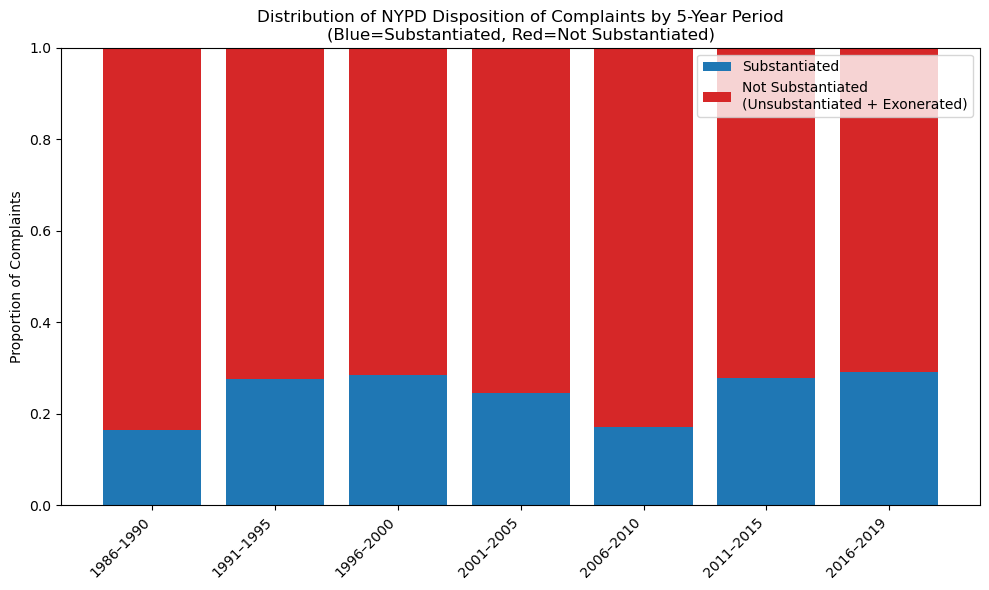
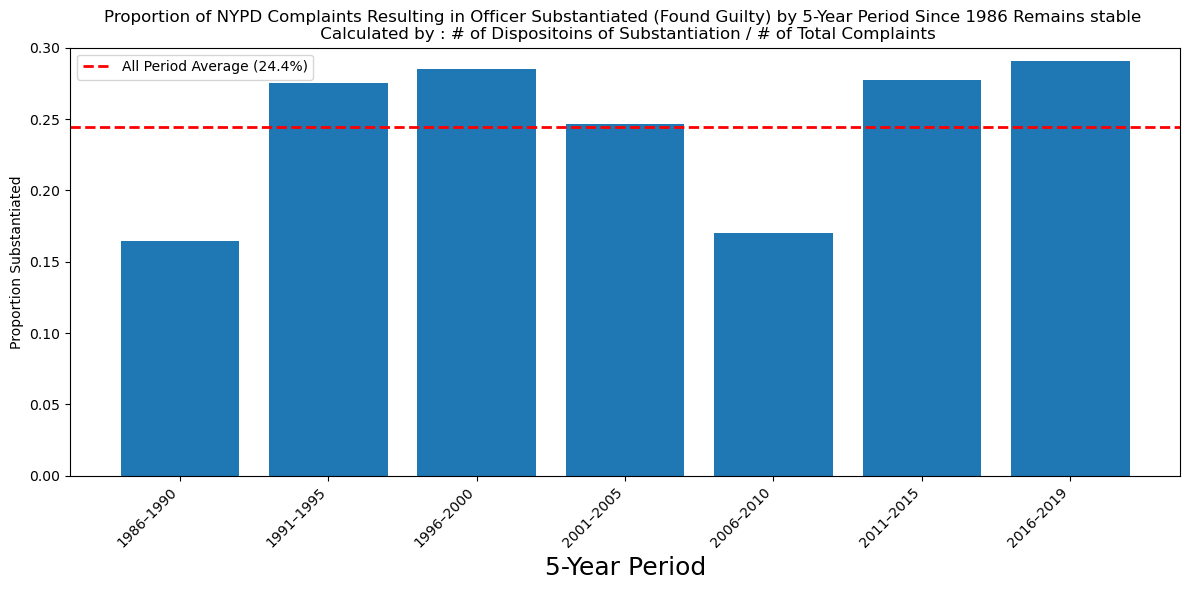
fixed imgs

diff --git a/index.html b/index.html
@@ -158,7 +158,7 @@
         <h3>FOR the Proposition</h3>
 
         <figure>
-          <img src="img/for1.png" alt="Concentric ring plot showing deceptive 5× weighting of substantiated proportion, with blue rings increasing over time" />
+          <img src="img/for.png" alt="Concentric ring plot showing deceptive 5× weighting of substantiated proportion, with blue rings increasing over time" />
           <figcaption>This <strong> deceptive visuallization</strong> shows that the proportion of substantiated (found illegal action by officer) dispositions of complaints increases dramatically over the years, and is far more than exonerated cases (officer's conduct fully legal), that means that in more and more of the cases, the board (appointed by NYC city council) found concrete evidence and determined that the officer used illegal means to enforce law.</figcaption>
         </figure>
 
@@ -176,17 +176,16 @@
         <h3>AGAINST the Proposition</h3>
 
         <figure>
-          <img src="img/against.png" alt="100%-stacked bar chart of substantiated vs not substantiated by 5-year period showing stable proportions" />
+          <img src="img/against.png" alt="Bar chart of proportion of complaints resulting in NYPD officer substantiated by 5-year since 1986" />
           <figcaption>Stacked bar chart of proportion substantiated (blue) vs not substantiated (red) in each 5-year period, showing that substantiation remains roughly stable rather than steadily rising. This shows that CCBR shows minimal change over the years.</figcaption>
         </figure>
 
         <p>Design Decisions and Rationale:</p>
           <ul>
             <li><strong>5-year Binning, Score: 1</strong> &mdash; Same grouping as the ring chart ensures a fair comparison. This consistent, earnest choice aids interpretation across both visualizations.</li>
-            <li><strong>100% Normalization, Score: 2</strong> &mdash; Each bar sums to 100%, clearly showing the true share of substantiated outcomes. This is fully earnest, providing accurate context.</li>
-            <li><strong>Color Coding, Score: 0.5</strong> &mdash; Blue for substantiated and red for not substantiated leverages intuitive associations. The colors are clear without being misleading.</li>
-            <li><strong>Stacked Bars, Score: 1</strong> &mdash; A stacked layout lets viewers compare relative proportions directly. This standard, earnest encoding highlights stability in substantiation rates.</li>
-            <li><strong>Complete Context, Score: 2</strong> &mdash; Including all buckets from 1986 to 2019 prevents cherry-picking. This fully earnest decision ensures no periods are hidden.</li>
+            <li><strong>Axis, Score: 2</strong> &mdash; The limit for y topps out at 0.3, it allows for better comparison and visualization effect.</li>
+            <li><strong>Line for Average, Score: 0.5</strong> &mdash; Add a line for average to for better understanding of the close distribution.</li>
+            <li><Strong>Showing Calculation Methods, Score: 1</Strong> &mdash; Single out "Substantiated", if readers don't know about "Unsubstantiated" and "Exonerated" categories, they will be confused why the two graphs found different proportions. </li>
           </ul>
       </section>
 
@@ -194,8 +193,8 @@
         <h2>Final Reflection</h2>
 
         <p>In this project, I decided to explore how CCBR, a board assmebled by New York City Council to oversee complaints against NYPD, makes final decision on the complaints. One side should be persuasive that police misconduct are more strictly handled. The other side should be against this and argue that NYC shows no improvement. This proposition is made after careful examination of the dataset, which contains a large amount of data that have many information regarding the complainant and the police officer across 30 years. The only clear pattern is that number of complaints increase steadily, the pattern regarding complainant and officer profile is hard to assume. So my intuition led me to examine how were the complaints resolved. </p>
-        <p>In the for graph, I created a deceptive visualization that was inspired by a past example from lecture. I filtered out and cherry-picked all cases that are "Substantiated" and "Exonerated", ignoring the "Unsubstantiated" category. Then I used the concentric ring chart with unequal normalization which 5x the "Substantiated" category for exaggeration, and centered the starting point at X = 0, so "Substantiated" looks more like a progress bar that has positive connotation. The against plot uses a bar chart of proportion, but it considers Unsubstantiated cases where insufficient evidence ended the case together with exonerated case since the police officer did not receive any subsequent punishment. This shows that the proportion of cases that are substantiated remains considerably stable for 30 years. It even casts doubt on whether there had been a controlled proportion for substantiate police officer. Note that for both plots, the bins are set to be the same for better comparison. </p>
-        <p>In fact, both plots seems to be deceptive. The first plot is designed to be deceptive, but the second plot is also somewhat deceptive, because it also overlooks the fact that the number of complaints skyrocketed over the years. So I realized that it's impossible to have a perfectly fair visualization, and that there is no clear distinction between persuasive visualization and deceptive visualization. Whenever we are drawing a visualization based on a proposition, we are overlooking or have to give up certain context that can also explain for or against this situation. So for better "ethical" analysis and visualization, one should not deliberately violate any common sense design principles, such as distorted proportions, truncated axis, etc. and not drop any relevant data. To make an existing visualization more persuasive and less deceptive, design choices like clear annotations, thoughtful aggregations, and straightforward color encoding should be made. Therefore, the reader can have all the important information to draw a conclusion. </p>
+        <p>For both graph, I chose to use 5-year bin since 1986 - 2019 is 24 years, so using 7 bins is easy to visualize. In the for graph, I created a deceptive visualization that was inspired by a past example from lecture. I filtered out and cherry-picked all cases that are "Substantiated" and "Exonerated", ignoring the "Unsubstantiated" category. Then I used the concentric ring chart with unequal normalization which 5x the "Substantiated" category for exaggeration, and centered the starting point at positive y-axis, so "Substantiated" looks more like a progress bar. The against plot uses a bar chart of proportion, but it calculates the total number of Substantiated dispositions for each five year period and divide by total number of This shows that the proportion of cases that are substantiated remains considerably stable for 30 years. It even casts doubt on whether there had been a controlled proportion for substantiate police officer. Note that for both plots, the bins are set to be the same for better comparison. </p>
+        <p>In fact, both plots seems to be deceptive. The first plot is deceptive by ignoring crucial information, but the second plot is also somewhat deceptive, because it also doesn't disclose anything about the "Unsubstantiated" category, while overlooking the fact that the number of complaints skyrocketed over the years. So I realized that it's impossible to have a perfectly fair visualization, and that there is no clear distinction between persuasive visualization and deceptive visualization. Whenever we are drawing a visualization based on a proposition, we are overlooking or have to give up certain context that can also explain for or against this situation. So for better "ethical" analysis and visualization, one should not deliberately violate any common sense design principles, such as distorted proportions, truncated axis, etc. and not drop any relevant data. To make an existing visualization more persuasive and less deceptive, design choices like clear annotations, thoughtful aggregations, and straightforward color encoding should be made. Therefore, the reader can have all the important information to draw a conclusion. </p>
     </main>
   </body>
 </html>
